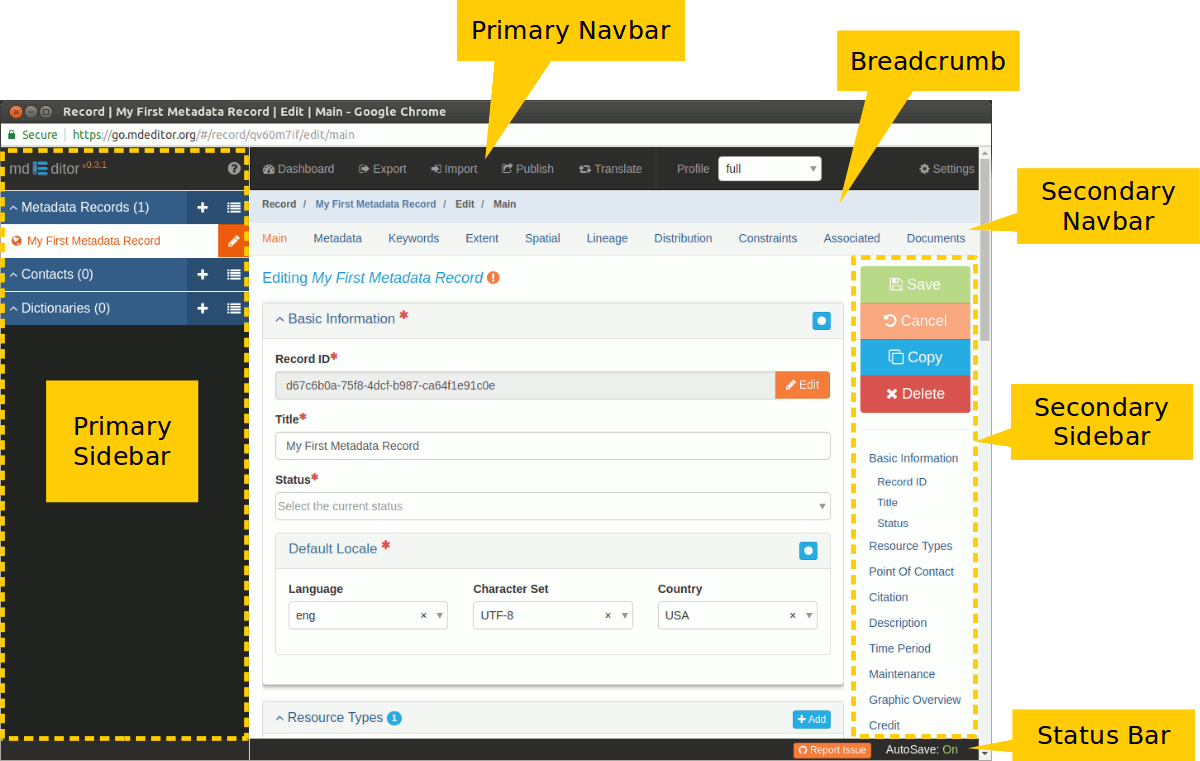
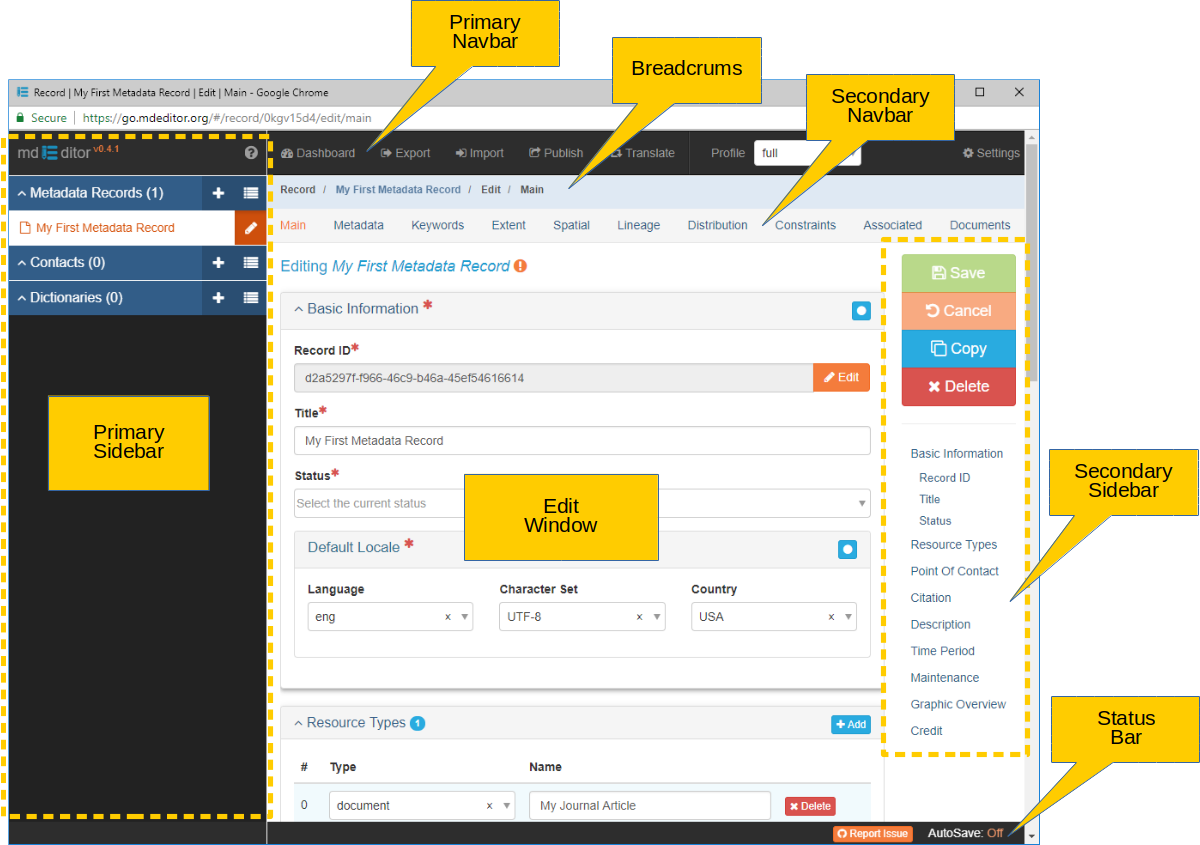
Update 2018-08-12

diff --git a/getting-started/edit-panel-section/primary-navigation.md b/getting-started/edit-panel-section/primary-navigation.md
@@ -1,23 +1,33 @@
 # Primary Navigation Bar
 ---
-The Primary Navigation Bar displays buttons that will navigate you away from the Editing Panel (or whichever panel you happen to be on at the time) to other facilities of mdEditor. These buttons are located in top-most navigation bar which has been outlined by the yellow rectangle below.
+The Primary Navigation Bar displays buttons that navigate you away from the Edit View (or whichever view you happen to be on at the time) to other facilities within mdEditor. These buttons are located in top-most navigation bar which has been outlined by the yellow rectangle below.
 
 ![The Primary Navigation Bar](/assets/get-started/primary-nav.png){caption}
 
-### Dashboard
-The Dashboard Panel is the home panel of mdEditor.  It was the first panel you saw when you started up the editor.  It displays a note about mdEditor and a few statistics for the records currently loaded into the browser cache.  
+### <i class="fa fa-tachometer"></i> Dashboard
+The Dashboard View is the initial view when starting mdEditor.  It displays relevant notes about mdEditor's status and a few statistics for the metadata records you currently have loaded in browser cache.  
 
-### Export & Import
-The Export and Import facilities help you manage moving metadata records between browser cache and your local storage.
+### <i class="fa fa-sign-out"></i>Export 
+The Export facility helps you move the metadata records you have been editing from browser cache to your local and networked storage devices for long-term backup and storage.
 
-### Publish
-The Publish facility can transmit your metadata record directly to a supported metadata repository handling all interface actions for you.  
+### <i class="fa fa-sign-in"></i> Import 
+The Import facility helps you load metadata records from your local and networked storage into browser cache for editing with mdEditor.
 
-### Translate
-The Translate facility interfaces with the mdTranslator.  It will send your mdEditor metadata record to mdTranslator, request translation to the metadata format of your choice, and capture the output for you to save to your local storage. 
+### <i class="fa fa-share-square-o"></i> Publish
+The Publish facility can transmit your metadata record directly to a supported metadata repository handling most or all interface actions for you.  
+
+### <i class="fa fa-retweet"></i> Translate
+The Translate facility interfaces with the publicly hosted mdTranslator.  It will send the selected metadata record to the translator, request translation into the metadata format of your choice, and capture the output for you to be viewed and saved to your local storage. 
 
 ### Profile
-Profile is the exception, it does not navigate away from the Editing Panel.  Instead Profile modifies the behavior of the Editing Panel by setting which panel elements are displayed and whether or not they are required.  Custom profiles can be written to meet the requirements of an organization or the specifications of a particular resource type.
+Profile is the exception, it does not navigate away from the Edit View. Profile instead modifies the behavior of the Editing Window by setting which panels and elements are displayed and whether or not they are required.  
 
-### Settings <i class="fa fa-cog"></i>
-The settings button will take you to the Settings Panel which hold options that can modify the default behavior of mdEditor.
+{% hint style='tip' %}
+  Custom profiles can be written to meet the requirements of an organization or the specifications of a particular resource type.
+{% endhint %}
+
+
+### <i class="fa fa-cog"></i> Settings 
+The settings button will take you to the Settings View which hold options that modify the default behavior of mdEditor.
+
+ 

diff --git a/getting-started/navigate-edit-view.md b/getting-started/navigate-edit-view.md
@@ -1,7 +1,7 @@
-# Metadata Edit View Orientation
+# Navigating the Edit View
 ---
-Your newly created metadata record should appear very similar to the following; without all the text balloons of course...
+Your newly created metadata record should appear very similar to the following screen image; without all the text balloons of course...
 
-![The edit view for a metadata record](/assets/get-started/orientation-main-window.png){caption}
+![The Edit View of a metadata record](/assets/get-started/orientation-main-window.png){caption}
 
-Since there are quite a few buttons and navigation options to consider on the home metadata Editing Panel let's take a quick look at each of these major sections individually to help with orientation.
+Since there are quite a few new symbols and buttons to employ while navigating the mdEditor's Edit View, let's divide the window into major sections and take a look at each of these separately to help with your orientation.

diff --git a/getting-started/edit-panel-section/primary-sidebar.md b/getting-started/edit-panel-section/primary-sidebar.md
@@ -43,4 +43,4 @@ Click the list icon to display a list of all objects of the associated type.  Th
 Click the plus icon to create a new object of the associated type.
 
 ### Expand & Collapse List <i class="fa fa-angle-up"></i>
-Click the up arrow icon to collapse an object list.  Then click the down arrow icon <i class="fa fa-angle-down"></i> to restore the list. 
+Click an up arrow icon to collapse an open object list.  Or click the down arrow icon <i class="fa fa-angle-down"></i> on a collapsed list to reveal its contents. 
